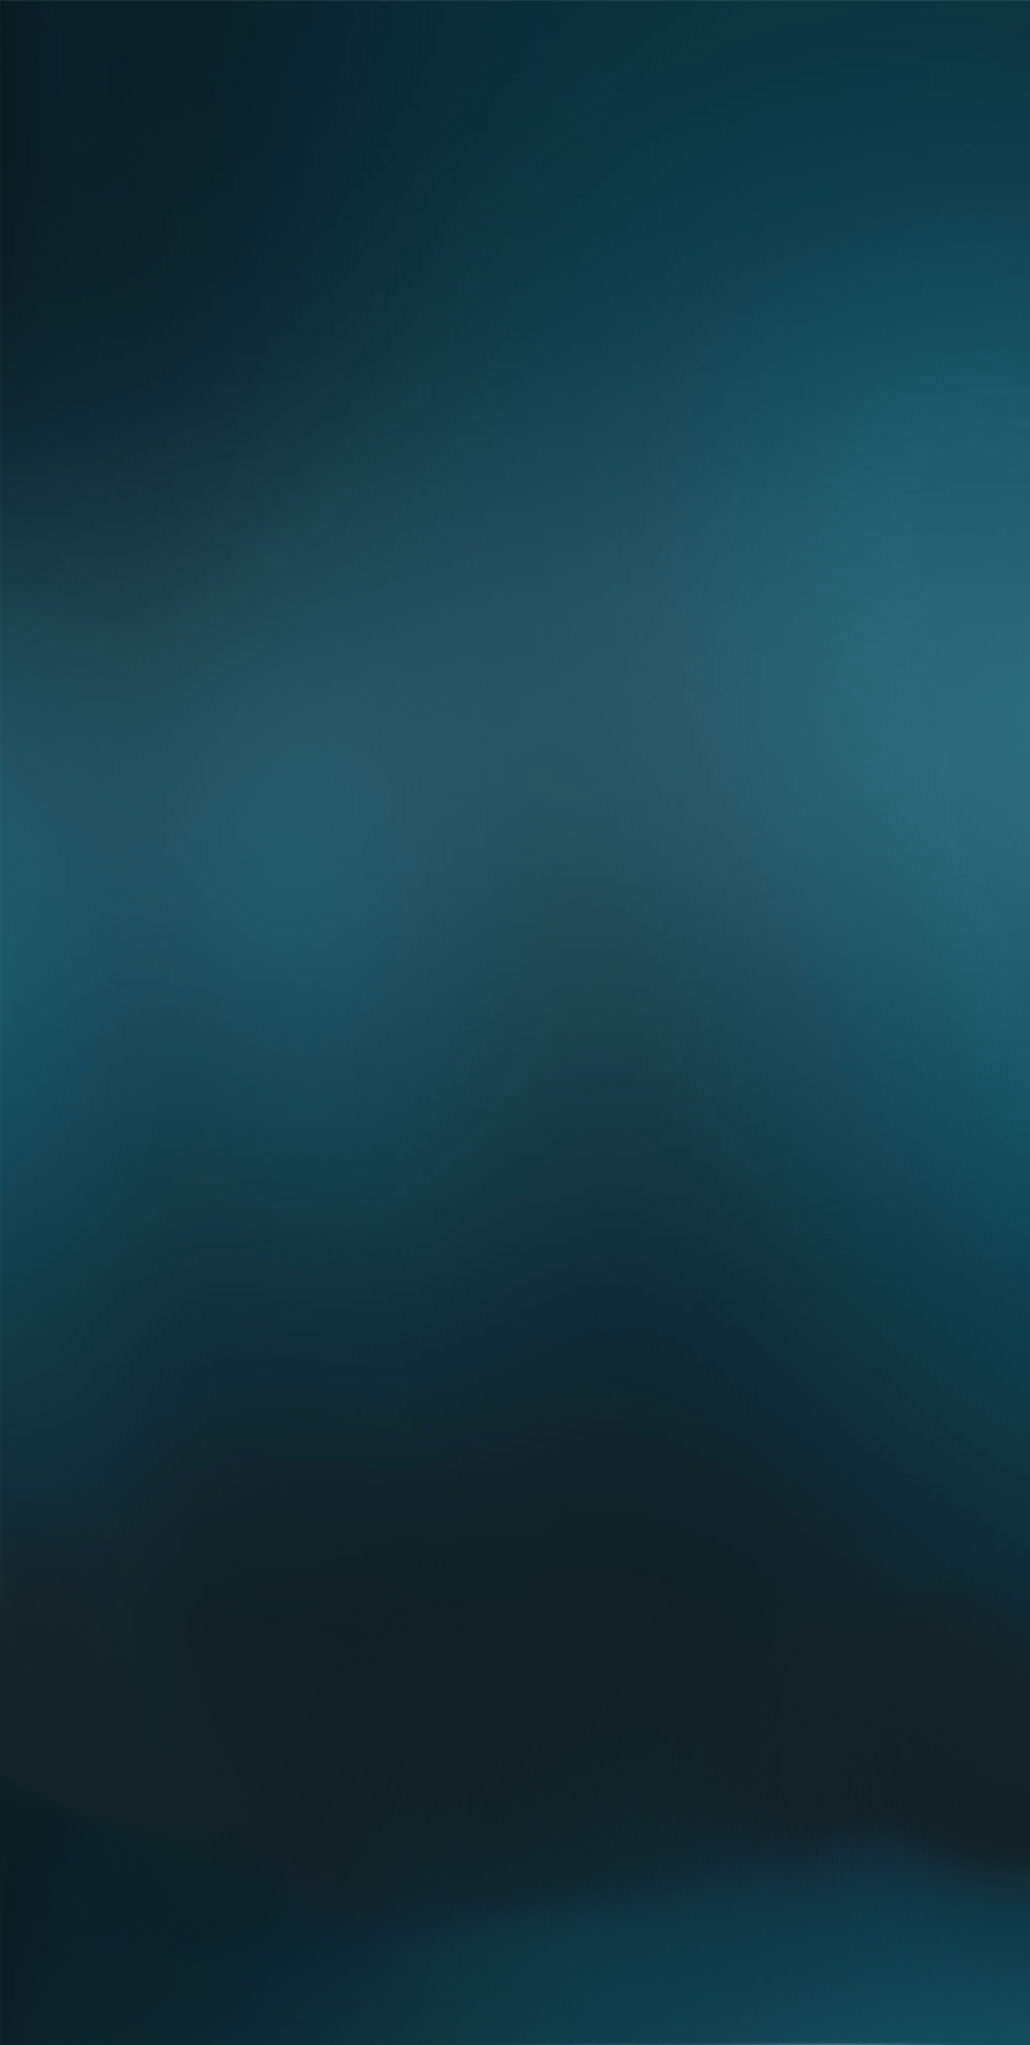
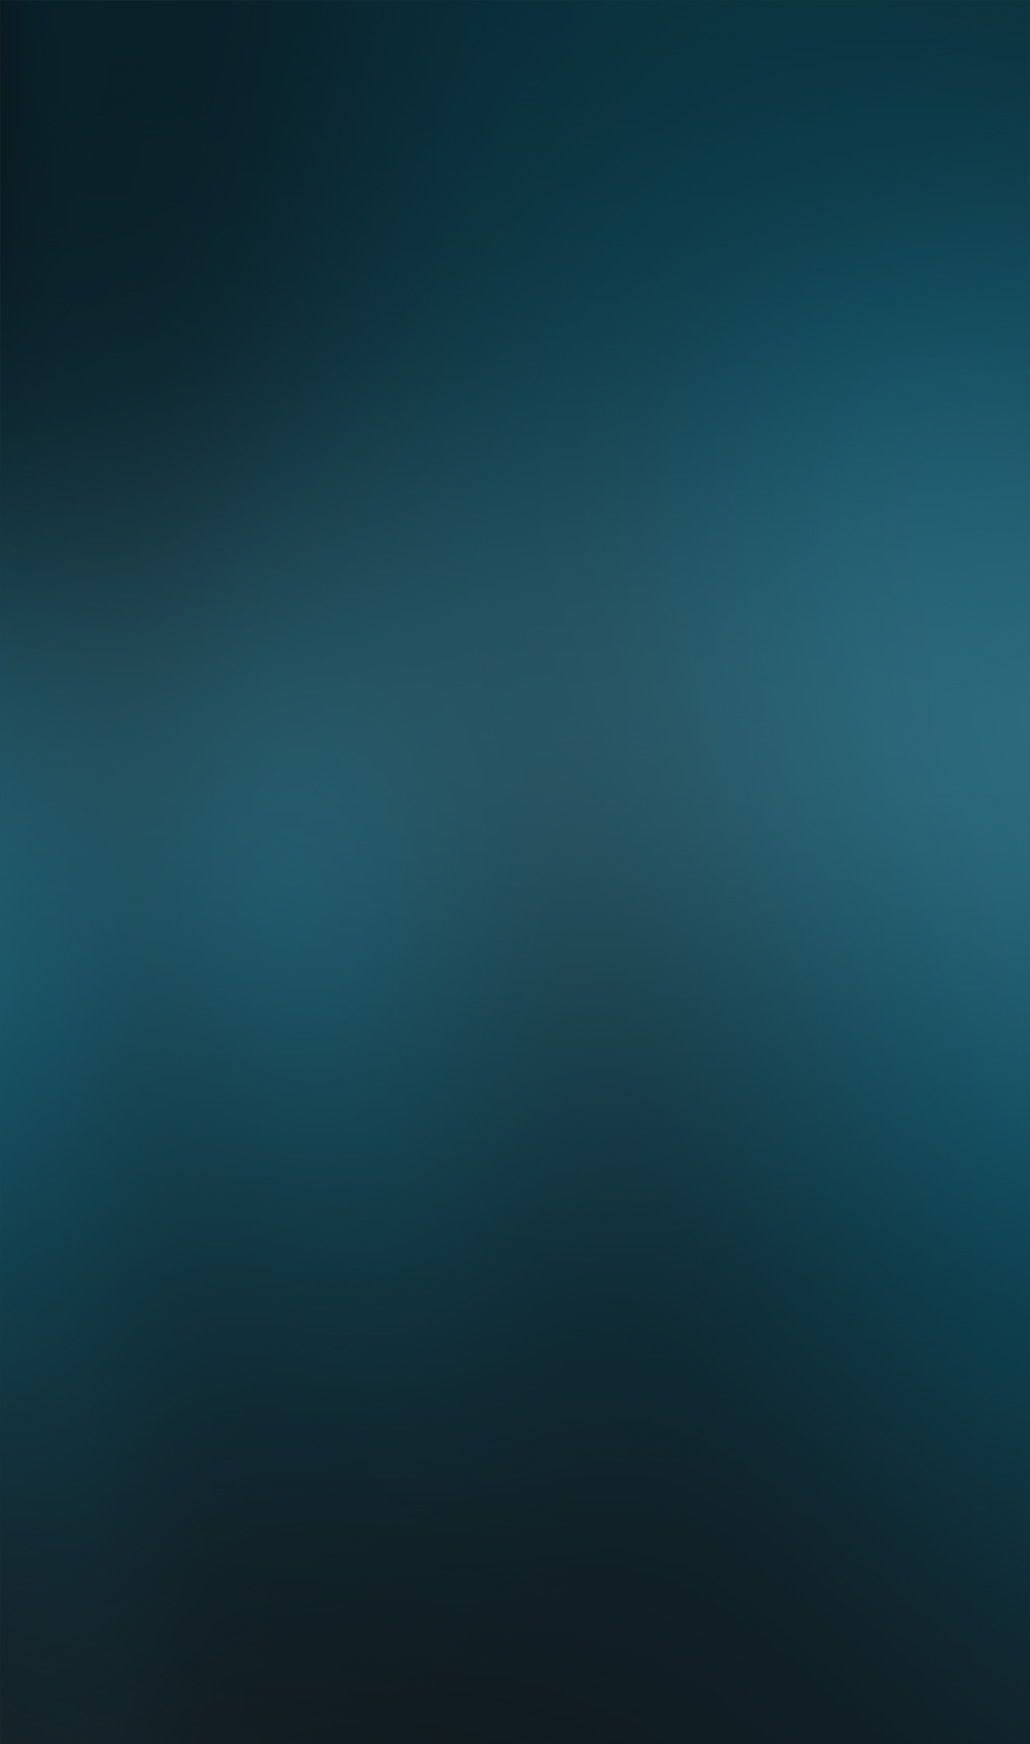
re bg images update

diff --git a/skin/frontend/zonda/default/css/styles-zonda.css b/skin/frontend/zonda/default/css/styles-zonda.css
@@ -4095,7 +4095,7 @@ div.menu a, #nav li a, #blog_nav li a, #nav-links a {
 }
 
 .cms-page-view .main-container {
-    background: url('../images/backgrounds/green_glow.jpg') no-repeat top center;
+    background: url('../images/backgrounds/green_glow.png') repeat-y top center;
 }
 
 .cms-page-view .breadcrumbs {
